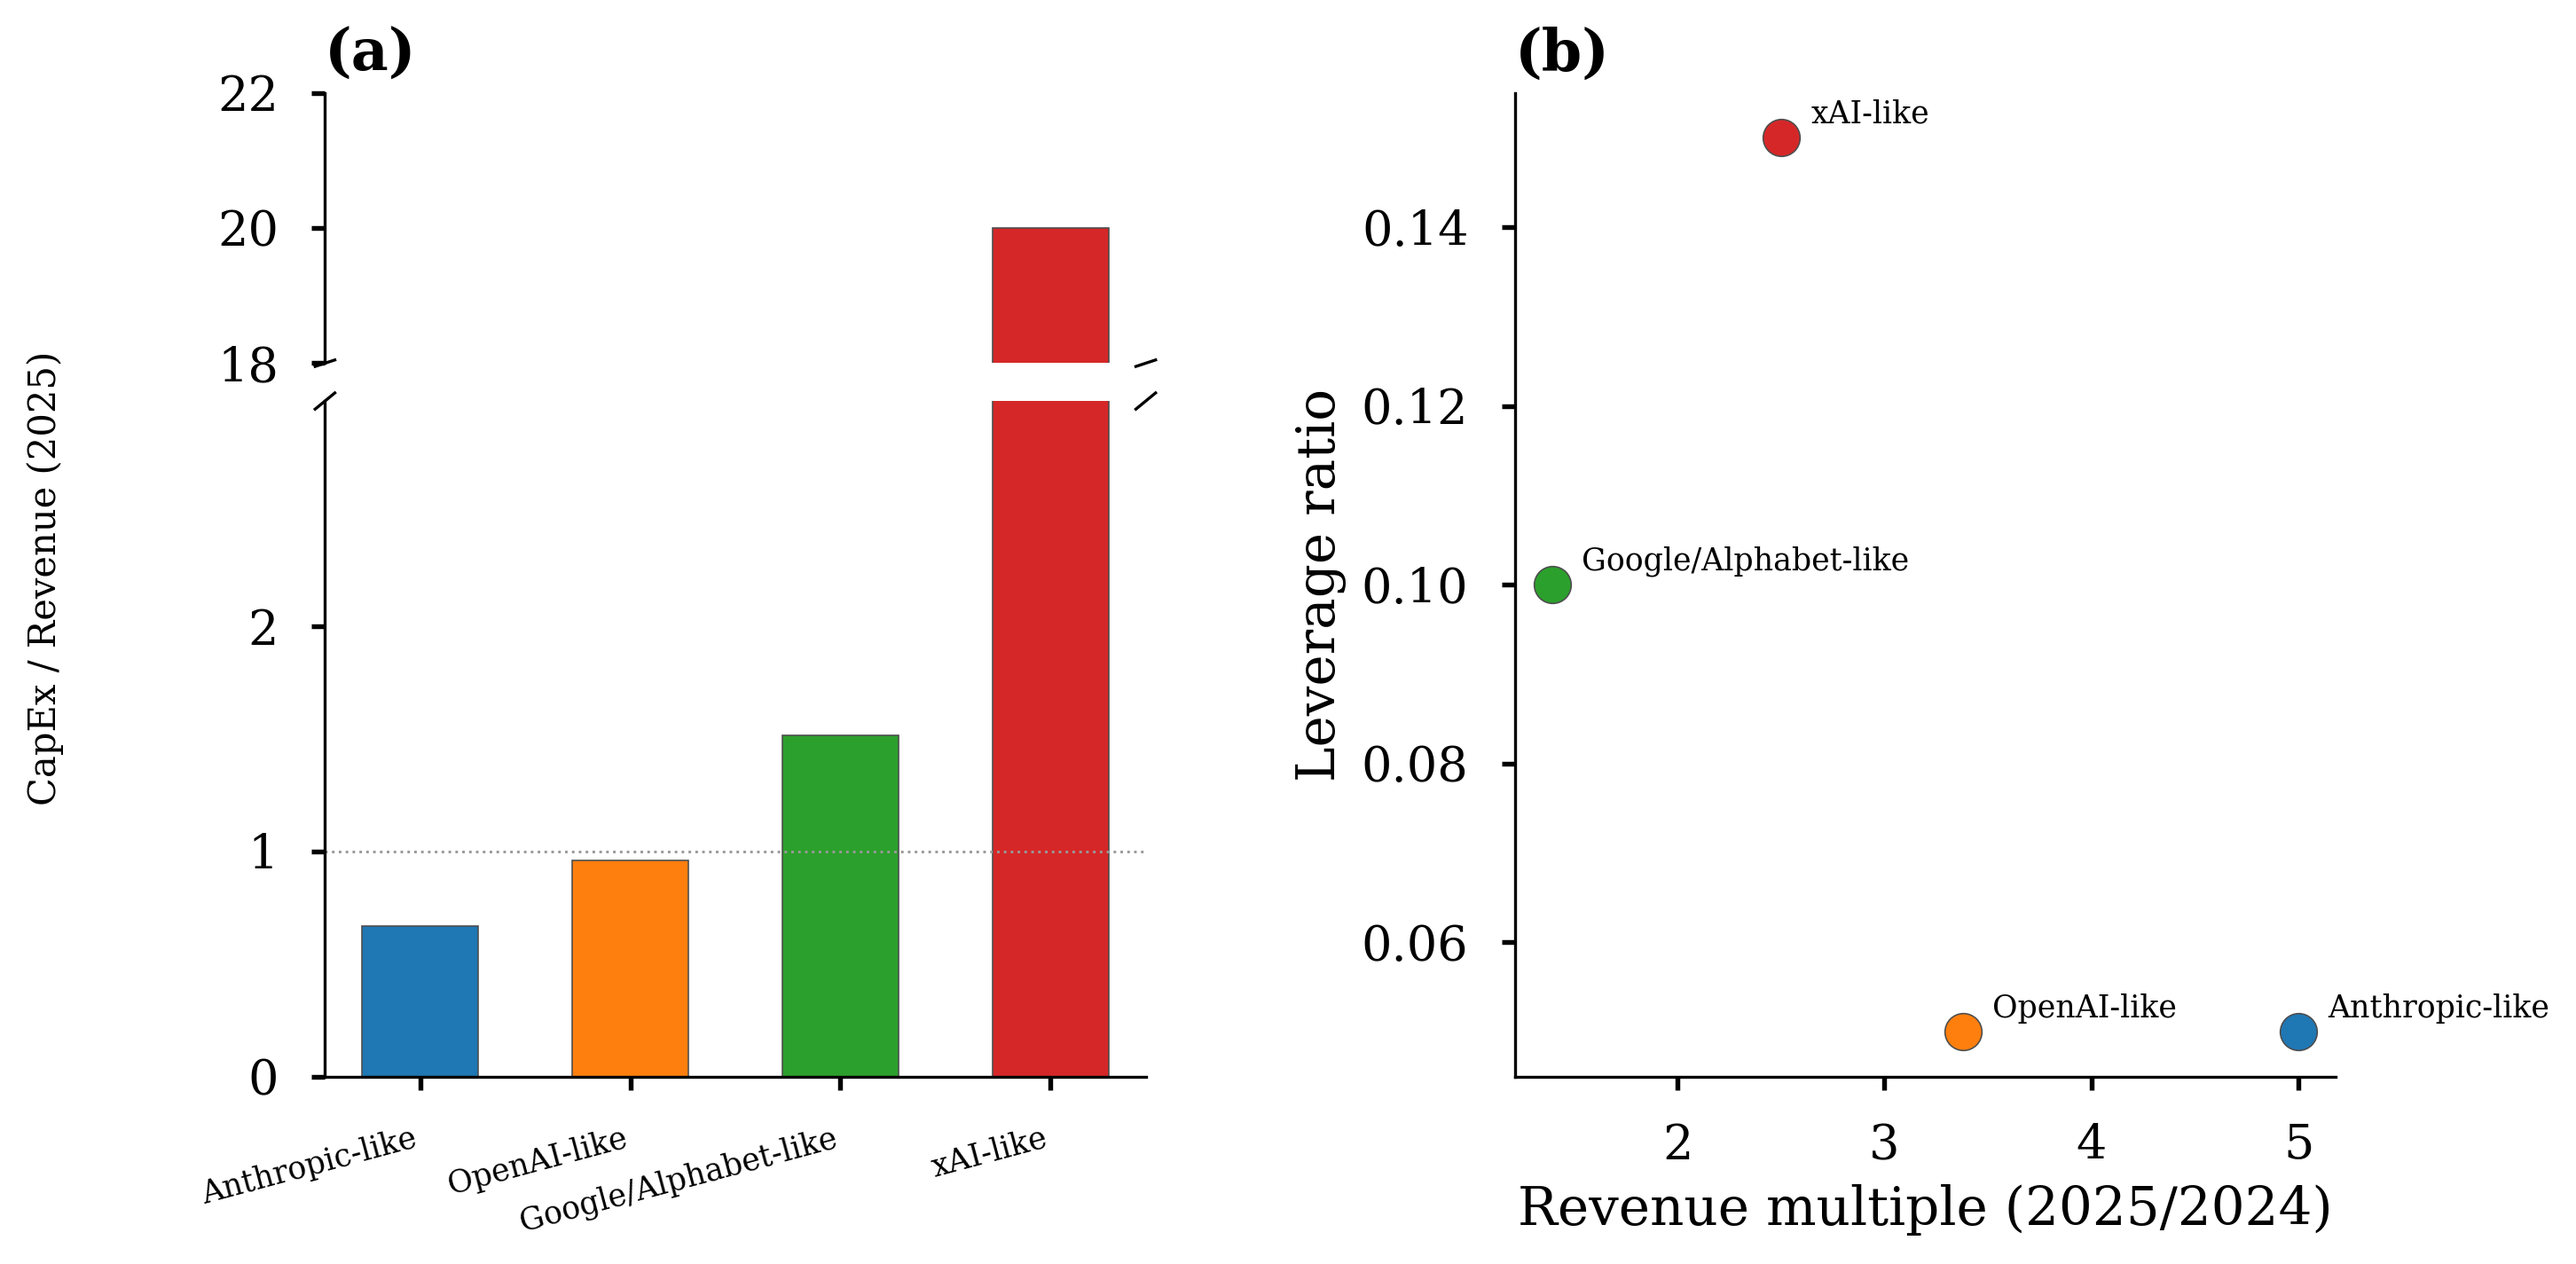
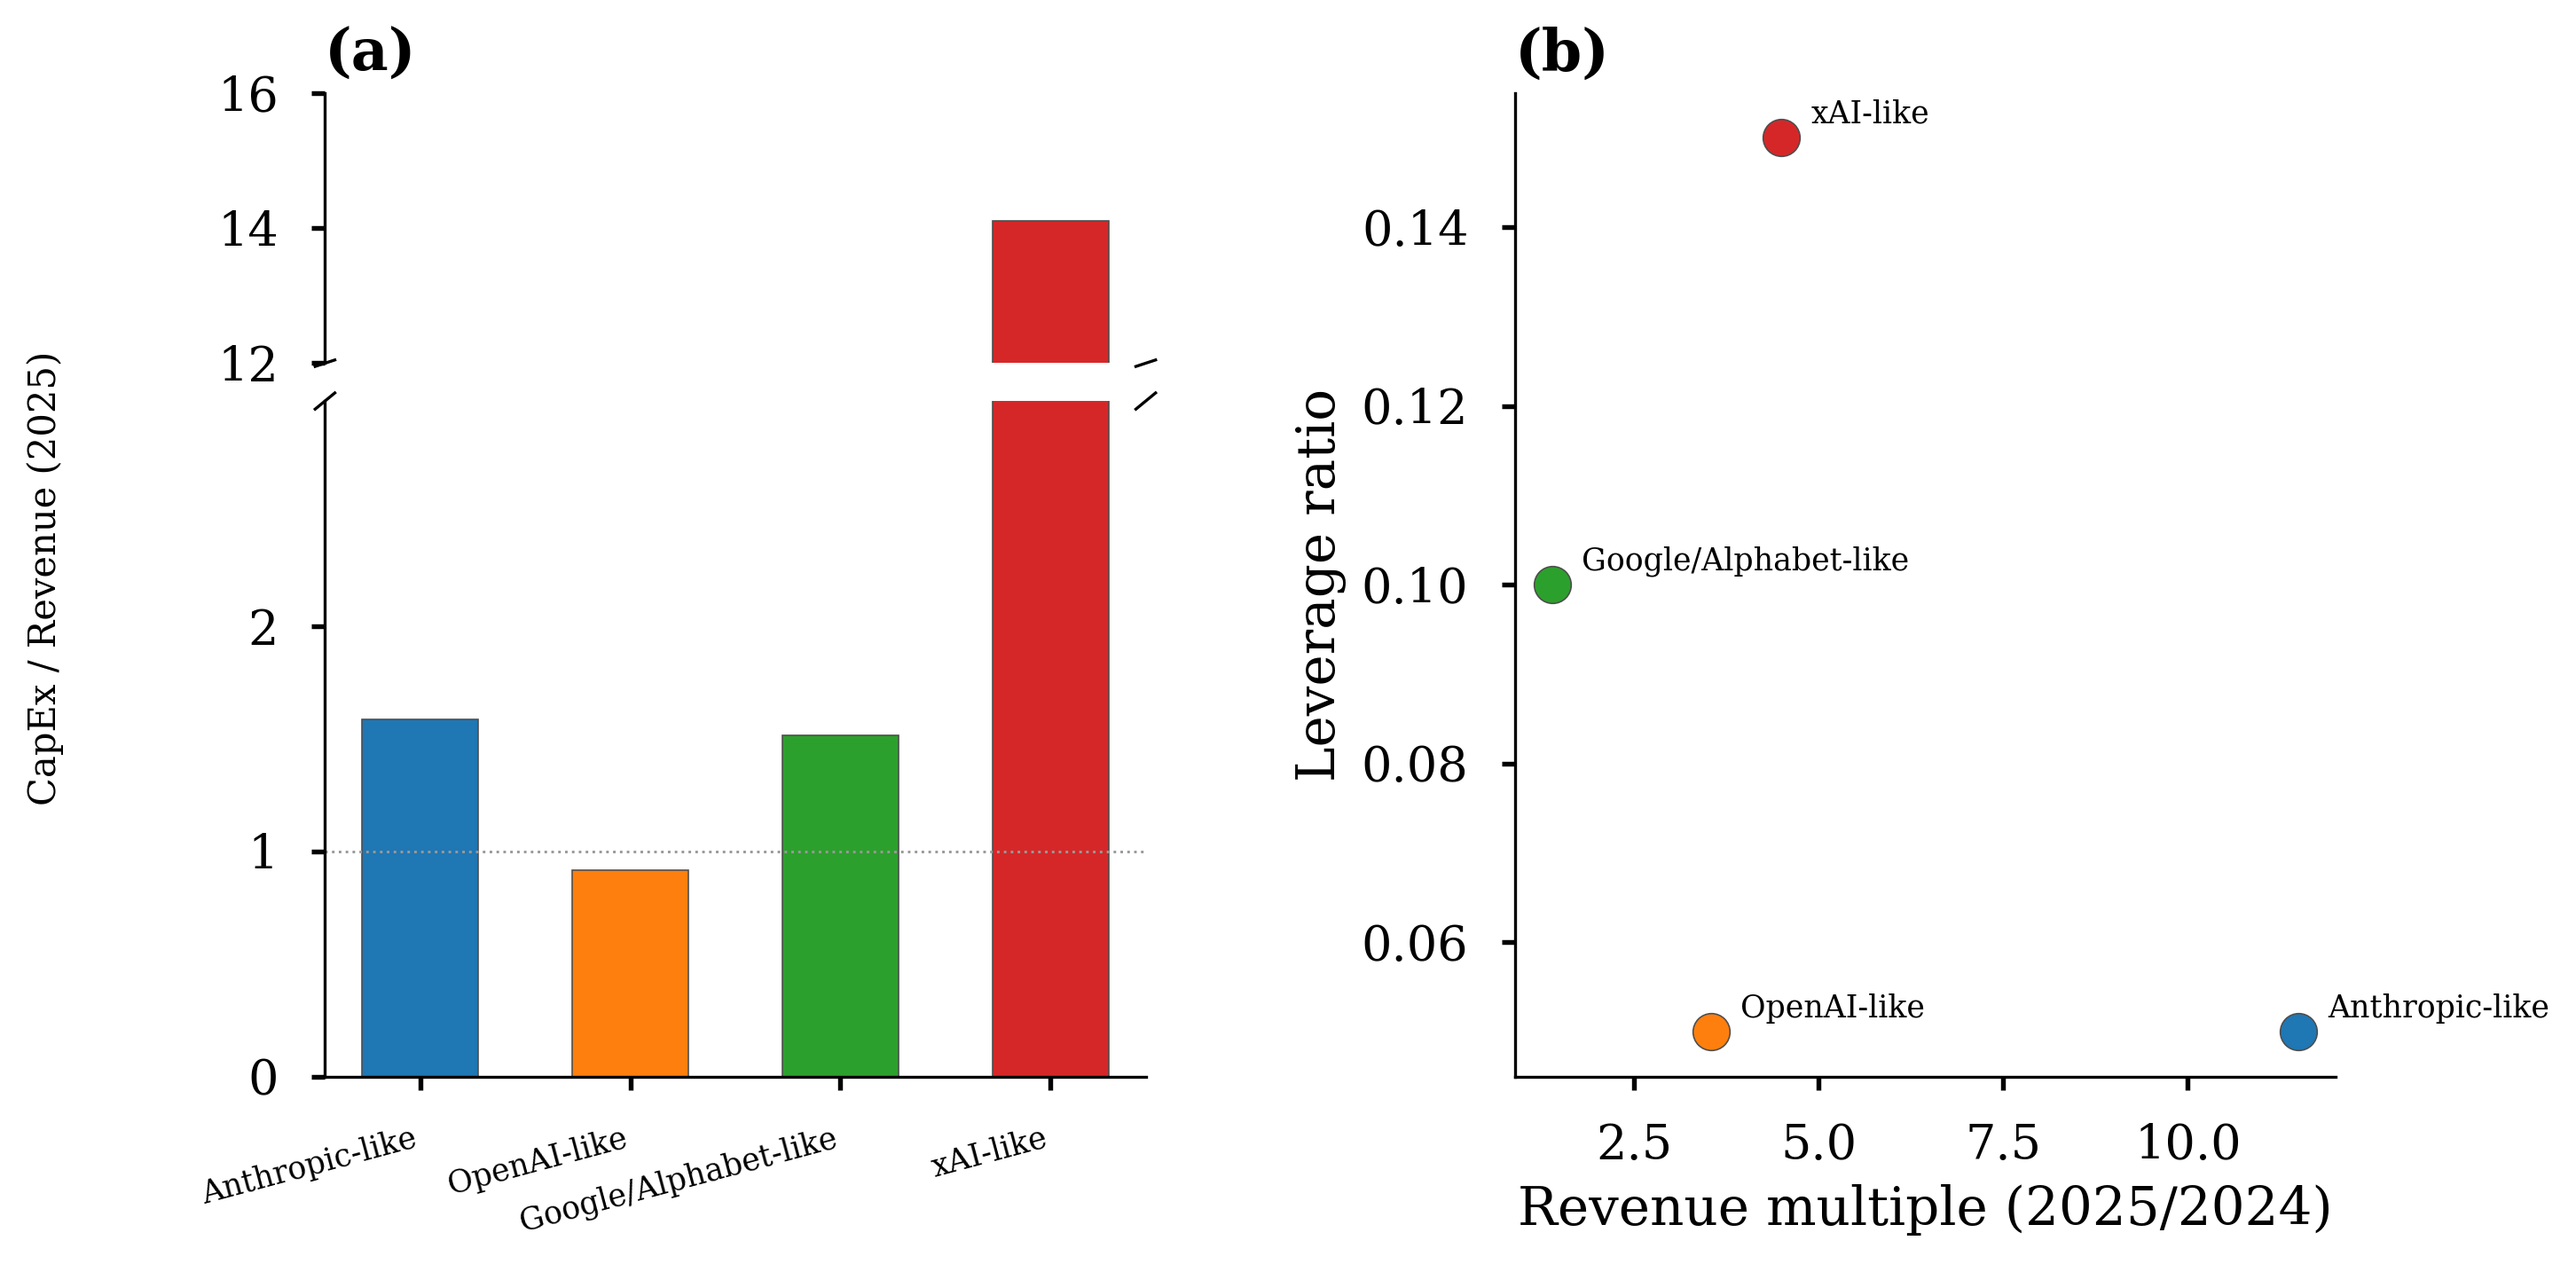
update archetype revenue and capex inputs with 2026 data
refs #167

diff --git a/src/ai_lab_investment/calibration/data.py b/src/ai_lab_investment/calibration/data.py
@@ -116,10 +116,11 @@ def get_stylized_firms() -> list[FirmData]:
     return [
         FirmData(
             name="Firm A (Anthropic-like)",
-            revenue_2024=0.9,
-            revenue_2025=4.5,
+            revenue_2024=0.4,
+            revenue_2025=4.6,
             capex_2024=2.0,
-            capex_2025=3.0,
+            # 2025 compute spending of $7.33B (draft S-1, press reports)
+            capex_2025=7.3,
             leverage_ratio=0.05,
             wacc=0.15,
             training_fraction=0.55,
@@ -130,7 +131,7 @@ def get_stylized_firms() -> list[FirmData]:
         FirmData(
             name="Firm B (OpenAI-like)",
             revenue_2024=3.7,
-            revenue_2025=12.5,
+            revenue_2025=13.1,
             # ~$7B total 2024 cloud compute per Epoch AI (~$3B training,
             # ~$2B research/experimentation, ~$1.8B inference)
             capex_2024=7.0,
@@ -159,9 +160,11 @@ def get_stylized_firms() -> list[FirmData]:
         FirmData(
             name="Firm D (xAI-like)",
             revenue_2024=0.2,
-            revenue_2025=0.5,
+            # Standalone AI revenue and AI capex for FY2025 from SpaceX's
+            # S-1 (pre-merger snapshot; excludes X advertising)
+            revenue_2025=0.9,
             capex_2024=2.6,
-            capex_2025=10.0,
+            capex_2025=12.7,
             leverage_ratio=0.15,
             wacc=0.18,
             training_fraction=0.75,
@@ -182,27 +185,28 @@ def get_baseline_calibration() -> CalibrationData:
     firms = get_stylized_firms()
     sources = {
         "revenue": (
-            "Anthropic: $0.9B collected 2024, $4-5B collected 2025 "
-            "(SaaStr, Sacra). OpenAI: $3.7B 2024, $12-13B 2025 "
-            "(CFO Sarah Friar, Jan 2026). Google Cloud: $43.2B "
-            "2024, $59-60B 2025 (Alphabet SEC 10-K). xAI: ~$0.5B "
-            "annualized 2025 standalone AI revenue, from Bloomberg's "
-            "Q3 2025 figure of $107M roughly doubling quarter-on-quarter "
-            "(Jan 2026); ~$0.2B 2024 (press estimates, low confidence)."
+            "Anthropic: $386M 2024, $4.59B 2025 (draft S-1, press "
+            "reports, Sep 2026). OpenAI: $3.7B 2024, $13.07B 2025 "
+            "(leaked audited statements, press, Jun 2026). Google Cloud: "
+            "$43.2B 2024, $59-60B 2025 (Alphabet SEC 10-K). xAI: ~$0.92B "
+            "2025 standalone AI revenue (AI solutions, subscriptions, "
+            "data licensing; SpaceX S-1, May 2026); ~$0.2B 2024 (press "
+            "estimates, low confidence)."
         ),
         "capex": (
             "Alphabet CapEx from SEC 10-K: $52.5B 2024, $91.4B 2025. "
-            "Anthropic cloud spend: $2.66B through Sep 2025 (press). "
-            "OpenAI: ~$7B total 2024 cloud compute (Epoch AI); "
+            "Anthropic: $7.33B 2025 compute spending (draft S-1, "
+            "press). OpenAI: ~$7B total 2024 cloud compute (Epoch AI); "
             "Azure spend $8.65B through Q3 2025 (The Information). "
-            "xAI: ~$10B+ est. 2025 ($7.8B cash burn through Sep)."
+            "xAI: $12.7B 2025 AI capex (SpaceX S-1)."
         ),
         "leverage": (
             "Round assumptions informed by qualitative evidence, not "
             "measured debt-to-capital ratios: Anthropic effectively "
-            "all-equity; OpenAI $4B revolving credit facility (Oct 2024); "
-            "Alphabet modest net debt; xAI $5B+ secured notes and term "
-            "loans (2025)."
+            "all-equity (undrawn revolver expanding to $15B, Sep 2026); "
+            "OpenAI ~$4.7B undrawn revolver; Alphabet modest net debt; "
+            "xAI $5B+ secured notes and term loans (2025), refinanced "
+            "by SpaceX investment-grade bonds (Jun 2026)."
         ),
         "gpu_pricing": (
             "H100 ~$25-40K, B200 ~$30-35K (NVIDIA pricing, analyst). "
@@ -225,8 +229,9 @@ def get_baseline_calibration() -> CalibrationData:
             "xAI Colossus: 122 days for 100K GPUs (exceptional)."
         ),
         "wacc": (
-            "Damodaran Jan 2025: software 7.2%, semis 10.8%. "
-            "Private AI labs: CAPM with beta 1.5-2.5 gives 10.5-15%. "
+            "Damodaran Jan 2026: software 9.3%, semis 10.6%. "
+            "Private AI labs: CAPM with beta 1.5-2.5, 10-yr Treasury "
+            "5.3% (Oct 2026), ERP 4.5% gives 12-16.5%. "
             "Hyperscalers: 9-10% (Alphabet beta ~1.02)."
         ),
     }

diff --git a/src/ai_lab_investment/figures/paper.py b/src/ai_lab_investment/figures/paper.py
@@ -511,8 +511,9 @@ def create_firm_comparison() -> plt.Figure:
         ax.set_xticks(x)
 
     # Upper axis: show the outlier region
-    ax_top.set_ylim(18, 22)
-    ax_top.set_yticks([18, 20, 22])
+    top_lo = int(max(capex_int)) - 2
+    ax_top.set_ylim(top_lo, top_lo + 4)
+    ax_top.set_yticks([top_lo, top_lo + 2, top_lo + 4])
     ax_top.set_xticklabels([])
     ax_top.tick_params(bottom=False)
     ax_top.set_title("(a)", loc="left", fontweight="bold")

diff --git a/references/calibration_update_2026-10.md b/references/calibration_update_2026-10.md
@@ -1,0 +1,69 @@
+# Calibration update: evidence collected 2026-10-04
+
+Web research for issue #167. Supplements `data_compendium.md` (whose firm-level data are as of Q4 2025–Q1 2026). Source tags: **[F]** SEC filing or official release; **[Co]** company announcement; **[P]** press report (often of leaked or investor documents); **[A]** analyst, aggregator, or blog. Several paywalled outlets (CNBC, Reuters, FT, Axios, Bloomberg) could not be opened, so some [P] figures come through secondary write-ups. Q3 2026 earnings are not yet out.
+
+## 1. Firm-level inputs
+
+### Anthropic
+
+| Item | Value | Source | Tag |
+|---|---|---|---|
+| Revenue 2024 / 2025 | \$386M / \$4.59B (paper currently: \$0.9B / \$4.5B) | Draft S-1 via Reuters; https://thedeepdive.ca/a-leaked-anthropic-prospectus-shows-explosive-growth-a-widening-loss-and-its-own-ai-risk-warnings/ (2026-09-28) | [P] |
+| 2025 compute spend | \$7.33B (58% of \$12.65B opex); operating loss ≈ \$8.1B | same | [P] |
+| Quarterly revenue 2026 | Q1 ≈ \$4.8B; Q2 \$11.5–11.6B (above OpenAI's \$6.7B) | WSJ via https://thenextweb.com/news/openai-q2-revenue-anthropic-surpasses (2026-08-19) | [P] |
+| Run-rate revenue | \$14B (Feb) → \$30B (Apr) → >\$47B (May) → \$65B (end-July 2026) | https://www.anthropic.com/news/series-h (2026-05-28) [Co]; https://www.cnbc.com/2026/08/17/anthropic-says-annualized-revenue-climbed-to-65-billion-in-july.html [P] | mixed |
+| Compute per \$ revenue | 71¢ (Q1 2026), ≈56¢ expected Q2 | https://www.cnbc.com/2026/09/28/anthropics-ipo-prospectus-shows-sweeping-ai-vision-surging-costs-reuters.html | [P] |
+| Compute commitments | \$518B forward obligations, ≈80% non-cancellable (Broadcom ≈\$161B, Google ≈\$111B, Amazon ≈\$110B, Microsoft ≈\$31B) | https://www.implicator.ai/anthropic-ipo-prospectus-518-billion-compute-commitments/ | [P] |
+| SpaceX/xAI compute deal | \$1.25B/month through May 2029, 90-day cancellation, used for inference | SpaceX S-1 (2026-05-20) | [F] |
+| Equity | Series G \$30B at \$380B (Feb 2026); Series H \$65B at \$965B post (2026-05-28) | Anthropic | [Co] |
+| Cash | \$20.3B at 2025-12-31 | draft S-1 via Reuters | [P] |
+| Debt | Revolver expanding to \$15B (undrawn); \$15B Google-backstopped project debt for Texas data center; Apollo arranging ≈\$36B chip financing | Bloomberg 2026-09-03, 2026-07-30, 2026-05-29 | [P] |
+| IPO | Confidential draft S-1 2026-06-01; listing reportedly Nov 2026. Public S-1 status on EDGAR unclear (one source: not public as of 09-29; another: prospectus reported 09-28) | https://www.foxbusiness.com/markets/anthropic-files-confidentially-ipo | [P] |
+| Training/inference split | Not found | — | — |
+
+### OpenAI
+
+| Item | Value | Source | Tag |
+|---|---|---|---|
+| Revenue 2024 / 2025 | \$3.7B / \$13.07B (paper: \$12.5B); 2025 operating loss \$20.9B; payments to Microsoft \$17.2B | Leaked audited statements, FT-checked; https://finance.yahoo.com/markets/stocks/articles/openai-2025-financials-leaked-38-121508294.html (2026-06-16) | [P] |
+| Quarterly revenue 2026 | Q1 \$5.7B; Q2 \$6.7B (operating loss \$12.3B) | WSJ / The Information via TNW | [P] |
+| Run-rate revenue | \$20B end-2025 → ≈\$70B Sep 2026 | https://www.axios.com/2026/09/29/scoop-openais-annual-recurring-revenue-nears-70b | [P] |
+| Equity | \$122B at \$852B post (2026-03-31; Amazon \$50B, Nvidia \$30B, SoftBank \$30B); seeking ≥\$30B at ≈\$1.4T (Sep 2026) | https://techcrunch.com/2026/03/31/openai-not-yet-public-raises-3b-from-retail-investors-in-monster-122b-fund-raise/ | [P] |
+| Debt | ≈\$4.7B undrawn revolver; no bonds | press | [P] |
+| Compute plans | Told investors ≈\$600B total compute spend by 2030 (down from \$1.4T headline); 2026 compute ≈\$50B (Brockman testimony); AWS deal expanded by \$100B over 8 years | https://www.techtimes.com/articles/316807/20260519/openai-cut-stargates-spending-pledge-14-trillion-600-billion-now-renting-what-it-vowed-build.htm | [P] |
+| Stargate | Abilene 1.2 GW operational; 600 MW Abilene expansion scrapped (Mar 2026); OpenAI says >\$400B of \$500B "in play", >8 GW (Aug 2026, secondary) | https://www.insurancejournal.com/news/southcentral/2026/03/10/861213.htm | [P]/[A] |
+| Other | Missed internal revenue/user targets early 2026 (WSJ, 2026-04-28); IPO now 2027 | https://www.cnbc.com/2026/04/28/openais-revenue-growth-estimates-fall-short-report.html | [P] |
+
+### Alphabet / Google
+
+| Item | Value | Source | Tag |
+|---|---|---|---|
+| 2025 capex | \$91.447B (confirms paper) | https://www.sec.gov/Archives/edgar/data/1652044/000165204426000012/googexhibit991q42025.htm | [F] |
+| Q2 2026 | Cloud revenue \$24.8B (+82% y/y); Cloud operating income \$8.8B; capex \$44.9B (H1 \$80.6B); first negative quarterly FCF since 2004 | https://www.sec.gov/Archives/edgar/data/0001652044/000165204426000066/googexhibit991q22026.htm (2026-07-22) | [F] |
+| 2026 capex guide | \$195–205B (from \$175–185B in Feb); 2027 to "significantly increase"; Cloud backlog \$514B | Q2 call | [Co] |
+| Long-term debt | \$98.2B (2026-06-30) | 8-K | [F] |
+
+### xAI (inside SpaceX, Nasdaq: SPCX)
+
+| Item | Value | Source | Tag |
+|---|---|---|---|
+| IPO | S-1 2026-05-20; priced 2026-06-11 at \$135; raised ≈\$75–86B | https://en.wikipedia.org/wiki/Initial_public_offering_of_SpaceX | [F]/[P] |
+| AI segment (xAI + X) 2025 | Revenue \$3.2B (includes X advertising; standalone AI solutions \$465M + subscriptions \$365M + data licensing \$88M ≈ \$0.92B); AI capex \$12.7B; operating loss \$6.4B (one secondary source says \$3.2B; conflict) | https://techcrunch.com/2026/05/20/xai-burned-6-4b-last-year-spacexs-ipo-filing-shows-why-the-spending-is-far-from-over/ | [F] |
+| AI segment 2026 | Q1 revenue ≈\$818M, AI capex \$7.7B; Q2 revenue \$2,561M (mostly "AI solutions & infrastructure"); one customer (almost certainly Anthropic) = 59.5% of Q2 AI revenue | https://www.sec.gov/Archives/edgar/data/0001181412/000162828026052535/spcx-20260630.htm | [F] |
+| Debt | \$25B inaugural investment-grade bonds (5.35–6.65%, 2031–56) refinanced X/xAI debt; xAI 12.5% notes redeemed at ≈117; total debt + finance leases ≈\$39.4B (2026-06-30) | https://www.cnbc.com/2026/06/23/spacex-debt-bond-market-ipo.html; 10-Q | [F]/[P] |
+
+## 2. Industry aggregates
+
+**2026 capex guidance after Q2 2026 earnings:** Alphabet \$195–205B [Co]; Amazon ≈\$220B cash capex, raised from ≈\$200B on memory costs [P]; Meta \$130–145B incl. finance-lease principal [F]; Microsoft ≈\$175B CY2026 after an accounting change (data-center building lives 15→25 years, more operating leases), underlying plans "unchanged" [P]. Sum ≈ \$720–765B, versus the paper's \$660–690B. Microsoft CY-vs-FY basis needs checking against the transcript.
+
+**Cloud growth (y/y, Q2 2026):** Google Cloud +82% (\$24.8B) [F]; AWS +37% (\$42.2B) [P]; Azure +43% constant currency [P]. Paper cites late-2025 rates of 37% / 24% / 39%.
+
+**Training vs inference:** no authoritative 2026 split found. Deloitte TMT Predictions 2026 remains the main source (inference ≈1/3 in 2023, ≈1/2 in 2025, ≈2/3 in 2026). Epoch AI (2026-05-20, https://epoch.ai/gradient-updates/frontier-labs-dont-use-most-ai-compute): OpenAI ≈1.7M H100e (1.9 GW), Anthropic ≈1M (1.4 GW), lab compute growing ≈4×/yr, no split. Nvidia Q2 FY27 (2026-08-26): data-center revenue \$89.0B (+117%), no inference share disclosed [F].
+
+**Timeline beliefs:** Altman (TIME, 2026-08-26) expects an internal system he would call AGI by end-2026 [P]. Amodei: "country of geniuses" in ≈1–3 years (Dwarkesh, early 2026). Hassabis: "2030 ± 1 year" (Axios 2026-05-26, secondary only). LeCun left Meta to found AMI Labs. Metaculus (secondary, Jul 2026): strong AGI median Jan 2033, weak AGI median Jun 2028 [A]. AI Futures Project (2026-08-16): medians shortened slightly (AGI Nov 2028 / Jul 2032) [A]. Net direction in 2026: stable to slightly shorter.
+
+**Discount rates:** Damodaran US WACC file dated 2026-01-05 (https://pages.stern.nyu.edu/~adamodar/pc/datasets/wacc.xls): software (system & application) 9.34%, software (internet) 10.66%, semiconductors 10.55%, total market 7.72%. The paper's 7.2% / 10.8% are the January 2025 values. 10-year Treasury: 4.19% (2026-01-02) → 5.28% (2026-10-02) [F].
+
+**AI credit market:** Oracle cut to BBB- by S&P (2026-07-09) on OpenAI concentration, 5-yr CDS ≈200–215 bp [P]. CoreWeave 5-yr CDS ≈855 bp (Jul 2026), 2030 notes yielding ≈11.3–11.5%, Moody's Ba3; its GPU-backed DDTL rated A3 at SOFR+225 [P/A]. Meta Hyperion SPV 2049 notes ≈230 bp over Treasuries (255 bp record in July); El Paso SPV priced >7% [P]. Goldman: ≈\$500B AI-related debt issuance in 2026 YTD [P]. No major AI-lab or neocloud default found through Sep 2026. Leverage sits mainly with compute partners and SPVs, not the labs.
+
+**Power and depreciation:** EIA industrial price ≈9.0¢/kWh (Feb 2026, +8.6% y/y); PJM 2028/29 capacity auction cleared at the \$325/MW-day cap, 6.8 GW short (2026-07-14) [F]. Server book lives: Microsoft/Alphabet 6 yrs, Amazon cut a subset to 5, Meta ≈5.5; debate continues that GPU economic lives are 2–3 years.
